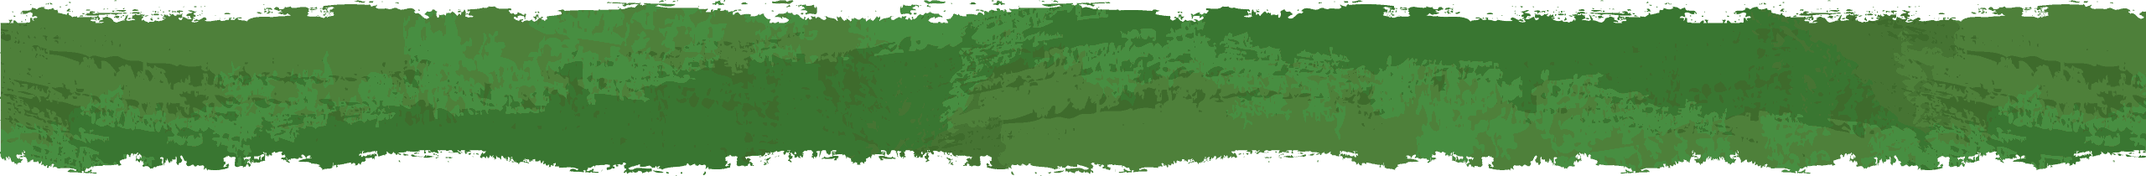
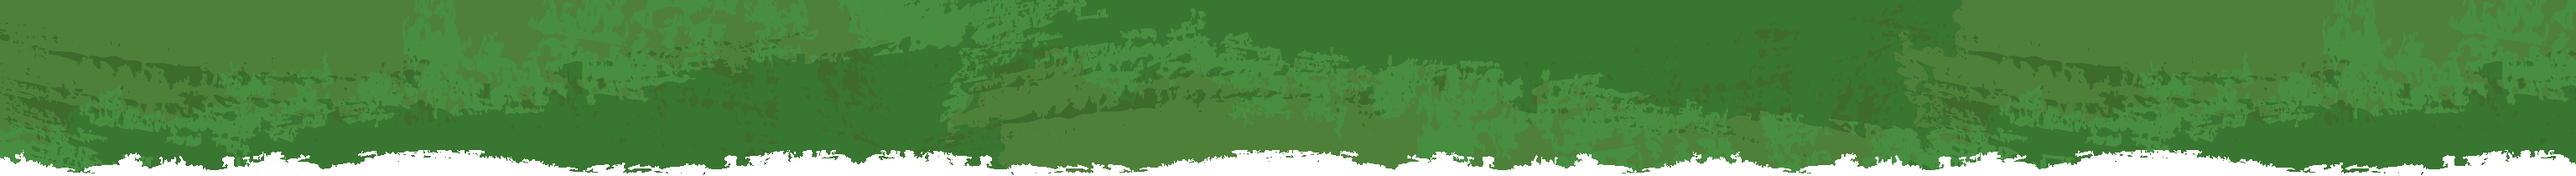
switch out donate background image with flat topped one

diff --git a/index.php b/index.php
@@ -1,21 +1,35 @@
 <?php get_header(); ?>
 
-<div class="hero">
-  <img src="<?php echo get_template_directory_uri(); ?>/assets/img/group.jpg" />
-  <svg id="heroClip" xmlns="http://www.w3.org/2000/svg" viewBox="0 0 1024 300">
-    <defs>
-      <style>.cls-1{fill:#fff;}</style>
-    </defs>
-    <title>Hero Image Bottom Border</title>
-    <g id="Layer_2" data-name="Layer 2">
-      <g id="Layer_1-2" data-name="Layer 1">
-        <path
-        class="cls-1" d="M1016,205H0V484c.35.58.27,2.19.77,2.39.41-1.18.69-2.75,1.43-2.94.24.13.31.67.39,1.21,0,1.68-.88,1.36-.33,3,.88.95.15-3.09.77-3,1.63.19,1.77,5.21,3.24,6.66-.14-.14,1-1.2,1.14-1.16.78.22.87,1.68,1.42,3,.6-.43,2.15-.81,2.12,1.85,1.39-3.85,3.21-3.08,4.7-2.84.25-3.95,1.69-2,1.93-4.72-.7.17-3,1.25-3.63-2.5-.15.86.14,3.09-.33,3-1-1.32-2.54-1.34-3.09-4.87,1.14-4.44,3.31-3.83,5.2-4.63,0,1.52.23,2.33.79,2.41.15-.86-.14-3.09.33-3,0,.89-.16,2.2.13,2.39a10.41,10.41,0,0,1,.55-3c.27.83,1.68,4.88,1.94.66.14-1.87-.69,1.49-.63-.62.26-3.91,1.36-1.05,2,.06a16.5,16.5,0,0,1-.9,6.54,2.05,2.05,0,0,0,1.94.66c.26,2.79,1.51,3.16,1.26,7.2,1.1.28,1.58-1.37,2.28-2.32a6.91,6.91,0,0,0,.37,1.8c.84-4.08,3.59-2.37,4.29-3.46.05,1.91-.48,1.84-.12,3,1.87,1.18,3.42.2,5.29-1a25.85,25.85,0,0,1,.74,3.6c1.65.87,1.86-2.71,3-3.49.32,2-.14,2.86-.2,5.37,1.18.74,1.27-1.87,2.45-1.12,0,2.26.91,2.09,1.41,3a3.68,3.68,0,0,1,2.91-1.7,30.24,30.24,0,0,0-.57,3.56l1.31,0c.29-.88.36-2.43.77-3,.77,2.05,1.35-.78,2-1.14.39,1.23-.14,1.17-.31,2.38,1.33.25,1.42-1.44,1-3.55.42,1.31,2.74-1.63,3,1.28-.33,1.44-1.16,1.34-1.23,3.55,1-1.31,3.19-.27,4.61-.46-.11,1.17.25,1.19.37,1.8,8.17-.45,15.67-1.93,22,2.45-.86-.18-1.42.54-1.82,1.73-3.18-1.89-5.9-4.58-8.77.34a26.39,26.39,0,0,0,3.52.5H83.55c-.28-.88-1.21-.15-1.38-1.27,1.25.51,2.06-.32,2.69-1.71-.19,2.24.94,1.28,1.22,2.42a1.09,1.09,0,0,1-.16.56h6.33a7.47,7.47,0,0,0,.41-1c0,.35,0,.66,0,1h1.18a4.82,4.82,0,0,1-.53-.35,1.46,1.46,0,0,1,1.35-1.15c-.49-5.16-2.24,2.46-3.27-.1-1.08,1.59-4.55,2.58-5-.15,1.1.44,1.69-1.58,2.34-4.11,2.81,3.94,5.2-3.79,7.48-1,.1.12-.43,1.33,0,1.19.25-.79.3-2.21.75-2.37,3.83.25,6.09-1,10.3-.29,0-.73.11-1.41.48-1.18,6,1.36,10.23.21,16.87-.7.3.71.47,1.74,1,1.83a15.91,15.91,0,0,0,2.47-1.72c-.51-.21-.79-1-1.51-.65a23.92,23.92,0,0,1-.28-4.19,22,22,0,0,1,5.58-2.36c.14.46.28,1,.48,1.47.6-.43,2.15-.81,2.12,1.85,1.39-3.85,3.21-3.08,4.7-2.84.25-3.95,1.69-2,1.93-4.72-.49.12-1.74.67-2.68-.28.88-3.08,3.08-5.56,3.25-.43,1-3.42,2.36-.68,3.71-2,.29,2.66,1.49,3.09,1.24,7.06,1.1.28,1.58-1.37,2.28-2.32,0,.21,0,.41.08.6l-.06,1.67c-1.39,1-2.68.22-3.48-.7a10.86,10.86,0,0,0-.3-3.6,40.59,40.59,0,0,1-.69,6.55c.79,1.32.71-.52,1.16-1.75,1,2,2.15,3.8,3.12,4.27.07-3.24.53-1.78,1.23-3.55a9.79,9.79,0,0,1,1.2,3c-.09-2.27,1.06-.72,1.58-1.15-.52,3.26,1,1.54.47,4.8-.58,0-1.27-.37-1.35,1.15.16.14.23.51.17,1.2,2,0,6.4-2.9,8.21,2.63.88-.49,2.08-1,2.84.09.37-1.69,1.62-3.54,2.91-1.71,2.13-2.29,5-2.35,8-2.75,0-1.13.3-1.31.31-2.38-.85-.85-.74,1.28-1.35,1.15a11.63,11.63,0,0,1,0-1.82c.43-.31.55-1.07.47-2.07a10.22,10.22,0,0,0,.27-1c.43,0,1.05-.37,1.57-.41,0,1,0,2.23,0,3.34a4.5,4.5,0,0,0-.27,1.55,1.45,1.45,0,0,1,.36-.34,9.59,9.59,0,0,0,.33,2c.13-.74.22-1.59.35-2.3,1.09-.21,2.54.29,3.57.15-.11,1.17.25,1.19.37,1.8,3.86-.21,7.57-.65,11.08-.59a2.17,2.17,0,0,0,.83.82c0-.29.07-.55.11-.8a18.39,18.39,0,0,1,10,3c-.86-.18-1.42.54-1.82,1.73-3.18-1.89-5.9-4.58-8.76.34,5.23,1.15,10.64.18,15.69,1.66.24-2.59-1.22-1-1.44-2.43,1.25.51,2.06-.32,2.69-1.71-.18,2.24.95,1.28,1.22,2.42-.06.94-.58.45-.51,1.78,2.87-1.25,5.43,2.65,7.09-2.18a7.58,7.58,0,0,0,.13,2.39c3.11-.84,5.75,2.05,7.23-.38a10.51,10.51,0,0,0-3.07-.3c.8-1.18,2-1,2.63-2.82a11,11,0,0,0,1.16,4.21c.06-.46.05-1.18.26-1.19,7.16,1.63,14.26,1.3,23-1.7.19-1.94-.24-2.27.79-3.57-.4.07-.49-.6-.37-1.8a10.43,10.43,0,0,0-2.93,2.3c.35.76,1.33-.54,1.7,1.25-1.87-.6-3.94,2.82-5-.75,1.55.06.87-2.91,2.49-2.31.38-1.84-.35-1.58.36-3.57a1.24,1.24,0,0,1-2.09-.16c1.7-.24,3.5-.54,5.52-.82.3.71.47,1.74,1,1.83a15.91,15.91,0,0,0,2.47-1.72c-.51-.21-.79-1-1.51-.65a23.92,23.92,0,0,1-.28-4.19l.77-.45c2,.48,5.33-1.43,5.85,1.72a17,17,0,0,1-1,2.36c.85.66.11,3.14-.36,3.58.75.49.17,2.09-.11,3,2.42,5.7,4.83.14,9.13,1.46,0,.77.25.84.15,1.8a2.41,2.41,0,0,1,2.89-1.11c.27-3.39,1.83-2.8,3.17-2.89-.13,2,.42,3.07,1.64,3-.09-2,.91-.73.77-3-1-.34-1.64-1.77-2.54-2.47-.12,2.49-1.13,1.47-1.55.56.33-.09.8.24.9-.57-.13-1-1.08.1-.81-1.82.26.58.57.57.89.33.06.12.11.24.16.37,0-.22,0-.39,0-.55.4-.39.8-1,1.13-1.28a2,2,0,0,1-.6-.35,6.55,6.55,0,0,0,.05-1.36c-.78.6-.5.61-1.24,0,0,.17,0,.32,0,.47-.23.07-.48.4-.82,1.2a6.32,6.32,0,0,0-.15-1.79c-1.74-.29-.92,1.06-2.28,2.32A9.93,9.93,0,0,0,264,486.4c1.56.69,2.76-.15,3.9-.55a1.16,1.16,0,0,0,0,.18c.5.85.65.39.81-.37a1.89,1.89,0,0,1,1.24.3,7.8,7.8,0,0,0,2,2.45.82.82,0,0,1-.37.1c-.06,4.1,1.4,3.44,1.75,6.27A22.64,22.64,0,0,1,274,492l.08.05,0-.37a4,4,0,0,1,1.26-2c.18,1.62-.4,1.38-.85,2.37.34,0,.5.45.76.64,0,0,0,.06,0,.1.16.14.23.51.17,1.2,2,0,6.41-2.9,8.21,2.63.88-.49,2.08-1,2.85.09.36-1.69,1.62-3.54,2.9-1.71,2.13-2.29,5-2.35,8-2.75,0-1.13.3-1.31.31-2.38-.85-.85-.74,1.28-1.35,1.15-.14-3.08.59-3.51.86-5.34,0-2.54-1.56-1.11-2.1-2.25.35-.23.47-.14,1,.3,0-.11,0-.22,0-.32a2.55,2.55,0,0,0,.76.48,5.68,5.68,0,0,0-.36-2.38c1.11-.37,2.1-.4,2.81,1.84-1,.27-.57,7.87-.12,8.95.33-1.9.4-4.54,1.67-3.53.06-2,.09-4.17.62-4.76a3.23,3.23,0,0,0,.56,2.4,23.83,23.83,0,0,1,1.23-3.54,29,29,0,0,0,2.16,6.63c.36-1.11.79-2,1.2-2.95.37,0,.27,1.18.61,1.27a5.62,5.62,0,0,0-.39.81,4.41,4.41,0,0,1,2.87.77c0,.62,0,1.36.18.11v0c.62.26,1.15.26,1.66-.71.2,3,1.31,1.77,1.83.48.15.23.29.49.43.75-.46,1.11-1.3,1.54-1.17,2,1.49-.38,2.73,2.69,3.89,1.31-.37-.44-.74-.9-1.12-1.33a5.75,5.75,0,0,1,.83-2.7,2.31,2.31,0,0,0,.47-.38l.08,0c.15.3.3.63.43,1a5.44,5.44,0,0,1,.13-1,2,2,0,0,1,.76.43,4.71,4.71,0,0,1,.49-1.33,3.09,3.09,0,0,0,1.62,0v0l.05-.06a1,1,0,0,0,.35-.32,2,2,0,0,1,1.3-.2,6.61,6.61,0,0,0,3.14.78,4,4,0,0,1,0,1.26.83.83,0,0,0-.9.58c1.25,5.31,3.41,3.39,5.35,2.13,1,0,2.06,0,3.1,0a14.5,14.5,0,0,0,1.25,1.71c.74.52,1.65-.83,2.61-1.46a11.57,11.57,0,0,1,1.78.44,1.38,1.38,0,0,0,.54.21,6.64,6.64,0,0,1,2.77,2.11,5.32,5.32,0,0,1,0-1.13,8,8,0,0,0,2.74.89c-.18,1.4-.7,1.69-.77,3.4.68-1.84,2.09-1.43,2.83-3.11l.2,0a10.78,10.78,0,0,0,1.1,3.8c.06-.46.05-1.18.26-1.19l1.18.25a3.39,3.39,0,0,0,0,.59c2-.66,3,3,4.11,2.79-.27.21-.65,1.45-.31,1.77,4.56-3.27,8.54.32,11.57-4.1-.29.06-.44-.34-.46-1.11l.57-.11a.77.77,0,0,0,.17.34c0-.13,0-.25,0-.38l.75-.17c0,.33.1.55.22.58a6.06,6.06,0,0,1,.16-.67q1.41-.35,2.88-.78c0,1.31-.19,3.05.11,3.32,0-2.48,1.33.74,1.31-1.74-.56.23-.91-.23-.92-1.73l.38-.12a79.39,79.39,0,0,0,10.4-2c1.39.8,2.91-.54,4.88-1a5.18,5.18,0,0,1,.37,2.28,6.14,6.14,0,0,1,2.21-1.69,3.2,3.2,0,0,1,.11,1.28,2.38,2.38,0,0,1,1.41-1.12,4,4,0,0,1,1.28,2.27c-.26.09-.62-.12-.68.58,2.07.83,3.1-1.57,4.29-3.46a3.2,3.2,0,0,0,2.09,2.46c.57-7.57,4.8-.89,5.71-6.41-.46.7-.79.34-.81-.44a.77.77,0,0,0,.29-.05c0-.21,0-.44,0-.67,2.19-.13,4.42,1.53,6.83-1.14a6.14,6.14,0,0,0-.06-.68c.17-.09.33-.18.5-.29-.06.36-.12.68-.19,1l.59-.17c.22,4.13,2-3,2.32,2.56.46-1.67.06-1.18.13-3.25.45-.09.8-.09,1,.08a6.65,6.65,0,0,1-.15-1.2c.74-.78,1.51-1.43,2.2,0-.45-3.11-1.19-3-2.07-3.26.1-1.18.25-2.52.4-4,.53,0,1.07-.09,1.59-.11a1.75,1.75,0,0,0,.38.81c-.58-.1-1.29-.62-1.48.47.6.7,1.32.59,2,0a1.71,1.71,0,0,1,.37.45,3.53,3.53,0,0,0-1.28,2.05c1.56-.6,1.26.56,1.35,3.6,3.32-.48,6-2.28,9.56-3.28.3-1.64-.63-3,.13-3.55,1.79,1.49,5.22,6.95,7.35.48l.13-.15a3,3,0,0,0,2.59,2.42c0,.17,0,.36-.05.57a2.59,2.59,0,0,1-1,1c-.14-.19-.2-.62-.3.06v.06c-1.38.35-2.58-1.66-3.8,1.43a4.41,4.41,0,0,1,2.87.77c0,.62,0,1.36.18.11v0c.62.26,1.15.26,1.66-.71.23,3.34,1.57,1.44,2,.06-.62.11-1-.49-1.18-1.82,1.1-1,1.23,1.13,1.68,2.18-.27,1.76-1.56,2.25-1.4,2.79,1.49-.38,2.73,2.69,3.89,1.31a16,16,0,0,0-2.31-2.46c.9-1.53,1.84-1.15,2.56-2,.16.32.3.66.44,1,.17-3.13,1.88-1.3,3-1.83v0l0-.06a1.07,1.07,0,0,0,.36-.32,2,2,0,0,1,1.3-.2c1.17.48,2.66,1.23,3.88.55a3.54,3.54,0,0,1,.51.81,3.82,3.82,0,0,0,0-1.17,4.39,4.39,0,0,0,1-1.86,4.21,4.21,0,0,1,.36,1.88c.39-.55.16-1.42.14-1.95a3.06,3.06,0,0,0,.57,1c.16.39.38.61.78.38a1.33,1.33,0,0,0,1-.61c0,.4,0,.8-.05,1.2.26-.09.62.12.68-.58-.23-.11-.3-.6-.44-.93a2.94,2.94,0,0,0,.2-.44c-.33-.41-1.08.47-1.35-.12.08-.3.32-.2.59-.93a1,1,0,0,0-.49-.38,2.66,2.66,0,0,1,1.37-1.59,2.76,2.76,0,0,0,.4-.06,1.65,1.65,0,0,1,.75.22V479h.13c1.3.85,2.54,3.14,3.26,3.69-.1,0-.2.15-.27.58.29,0,.16,1,.39,1.21a1.77,1.77,0,0,0,0-1.72.37.37,0,0,0,.16.05c.29-3.5,2.84-2.21,4.63-3.32a5.63,5.63,0,0,0-.24.94c-.13,1.58,1.25-.52.81,1.82-.8-.4-1.22-1-1.58,1.15.58.45.49-1.18.92-1.17-.06,3.12.63.63,1.29.63a11.12,11.12,0,0,1-.17,1.38c-5.12.2-10.23.47-14.79,3.64a36.19,36.19,0,0,0,6.8.35c.09.3.26.47.51.38,0-.13,0-.25,0-.37l.72,0a.69.69,0,0,0-.09.36c.14-.11.34,0,.42-.34,2.73.16,5.26.76,6.91,2.95a5.32,5.32,0,0,1,0-1.13c2.47,1.41,5.34.76,7.41,1.94h0c.05.16.13.18.22.13a4.18,4.18,0,0,1,.95.85c.09,2.42-1.15-.67-1.06,1.74,2-.66,3,3,4.11,2.79-.27.21-.65,1.45-.31,1.77,4.56-3.27,8.54.32,11.57-4.1-.45.1-.55-.9-.4-2.68.35.22.37,1.48.68,1.8.09-2.71.4-4.51.95-5.31.08,1.57-.5,5.21,0,5.34.49-2.78,2-1.43,3-1.69,0,1.33-.21,3.28.12,3.56,0-2.48,1.32.74,1.3-1.74-.57.23-.92-.24-.92-1.81,5-.5,10.33-2,15.54-3.28a4.55,4.55,0,0,1,.49,2.51c1.66-1.83,3.91-3.24,5,.74-.26.09-.62-.12-.68.58,2.07.83,3.1-1.57,4.29-3.46a3.2,3.2,0,0,0,2.09,2.46c.57-7.57,4.8-.89,5.72-6.41-.7,1-1.11-.22-.59-1.81a2,2,0,0,0-.29-.19c2.48-.27,4.94.27,7.34-1.09a7.77,7.77,0,0,0-1.62,4.91c2.62,0,3.7-3.1,5.66.76.07-.72.26-.36.44,0,.22-5.75,1.9-.81,2.62.07.14-2.26,1-1.88,1.57-1.15-.21-1.74,0-3.43.6-4.16.31,2.13,1.33,2.51,1.81,4.24.34-1.48-.55-2.5.11-3,.32,2.12.55,0,1.12-.56,1,1.43,1.36,4.24,1.93,6.63.14-2.47,1.26-1.94,1.56-.55.56-3.26-.92-5.17.24-6.57.64,6,4,2.68,5.42,7.33.61-1.44-.42-1.29-.09-3.59,1.24-5.11,2.81.78,4.09,1.92.65,0,.8-1.53,1.38-1.76.27.77,0,2.93.54,3,.44-2.7.91.51,1.75.05.09-1.85-.62-1.73-.28-4.19.6.51.6-.83,1.11-.57.37.56.28,2.21.79,2.42.41-1.19.69-2.76,1.42-3,.24.14.32.68.39,1.21,0,1.69-.87,1.36-.33,3,.89.94.16-3.09.77-3,1.64.2,1.78,5.21,3.25,6.67-.15-.15,1-1.21,1.14-1.16.77.21.87,1.67,1.41,3,.61-.44,2.16-.82,2.12,1.85,1.4-3.86,3.22-3.09,4.7-2.85.26-3.94,1.7-2,1.94-4.72-.7.17-3,1.25-3.63-2.5-.15.87.14,3.1-.33,3-1-1.31-2.55-1.33-3.1-4.87,1.15-4.43,3.31-3.83,5.21-4.63,0,1.52.23,2.33.78,2.42.15-.86-.14-3.09.33-3,0,.9-.16,2.2.13,2.39a10.78,10.78,0,0,1,.55-3c.28.83,1.68,4.88,1.95.66.13-1.86-.69,1.5-.64-.62.26-3.9,1.36-1,2,.06a16.81,16.81,0,0,1-.9,6.54,2,2,0,0,0,1.94.66c.26,2.79,1.51,3.16,1.26,7.2,1.1.28,1.57-1.37,2.27-2.32a7.35,7.35,0,0,0,.37,1.8c.85-4.07,3.6-2.36,4.29-3.45.06,1.9-.48,1.83-.11,3,1.87,1.19,3.41.21,5.29-1a27.56,27.56,0,0,1,.74,3.61c1.65.86,1.86-2.71,3-3.5.32,2.05-.13,2.87-.2,5.37,1.18.75,1.27-1.86,2.45-1.12,0,2.27.91,2.09,1.42,3a3.65,3.65,0,0,1,2.91-1.71,32.14,32.14,0,0,0-.58,3.57l1.31,0c.29-.89.37-2.43.77-3,.78,2.05,1.35-.77,2-1.13.39,1.23-.15,1.17-.31,2.38,1.32.24,1.42-1.44,1-3.55.42,1.3,2.74-1.64,3,1.28-.33,1.43-1.15,1.33-1.23,3.55,1-1.32,3.2-.28,4.61-.46-.11,1.17.26,1.19.37,1.8,8.18-.46,15.67-1.93,22,2.44-.64-.13-1.11.23-1.48.93h7a4.75,4.75,0,0,0,.85-1.34,2.3,2.3,0,0,0,.16,1.34H648a.36.36,0,0,1,0-.1c1.1.43,1.68-1.59,2.34-4.11,2.8,3.93,5.2-3.79,7.48-1,.1.13-.44,1.34,0,1.2.25-.79.29-2.22.75-2.37,3.83.25,6.09-1,10.29-.3,0-.72.12-1.41.48-1.18,6,1.36,10.24.21,16.88-.69.3.7.47,1.74,1,1.82a14.83,14.83,0,0,0,2.47-1.72c-.5-.2-.78-1-1.5-.64a23.92,23.92,0,0,1-.28-4.19,21.51,21.51,0,0,1,5.58-2.37,12.66,12.66,0,0,0,.48,1.48c.6-.44,2.15-.82,2.11,1.85,1.4-3.86,3.22-3.09,4.71-2.85.25-3.94,1.69-2,1.93-4.72-.49.12-1.75.68-2.68-.27.88-3.08,3.08-5.57,3.24-.43,1-3.42,2.37-.69,3.72-2,.29,2.66,1.49,3.09,1.24,7.06,1.1.28,1.58-1.37,2.28-2.32,0,.21,0,.41.07.6l-.06,1.67c-1.38,1-2.67.23-3.47-.7a11.33,11.33,0,0,0-.3-3.59,43.25,43.25,0,0,1-.69,6.55c.79,1.32.7-.53,1.16-1.76,1,2,2.15,3.8,3.12,4.27.06-3.24.52-1.78,1.23-3.54a9.59,9.59,0,0,1,1.2,3c-.09-2.28,1.06-.73,1.57-1.15-.52,3.26,1,1.53.48,4.79-.58,0-1.28-.37-1.36,1.16.17.13.24.5.17,1.2,2.06,0,6.41-2.91,8.22,2.63.87-.49,2.07-1,2.84.08.36-1.69,1.62-3.53,2.91-1.7,2.12-2.3,5-2.36,8-2.76,0-1.12.3-1.31.31-2.37-.86-.86-.74,1.27-1.36,1.15a12.81,12.81,0,0,1,0-1.82c.42-.31.54-1.08.47-2.07.09-.31.19-.63.27-1,.43,0,1-.38,1.57-.41,0,1,0,2.22,0,3.33a4.73,4.73,0,0,0-.28,1.56,1.73,1.73,0,0,1,.37-.35,9.86,9.86,0,0,0,.33,2c.12-.75.21-1.6.35-2.31,1.09-.21,2.54.29,3.57.16-.11,1.17.25,1.19.37,1.8,3.86-.22,7.56-.65,11.07-.6a2.27,2.27,0,0,0,.83.83c0-.29.08-.55.12-.8a18.24,18.24,0,0,1,10,3c-.85-.18-1.41.54-1.81,1.74-3.19-1.9-5.9-4.59-8.77.34,5.24,1.14,10.65.17,15.69,1.65.25-2.59-1.21-1-1.44-2.43,1.25.52,2.06-.31,2.69-1.71-.18,2.25,1,1.29,1.22,2.42-.05.95-.57.46-.5,1.78,2.87-1.25,5.43,2.66,7.08-2.18a8.24,8.24,0,0,0,.13,2.39c3.11-.84,5.76,2.05,7.24-.38a10.58,10.58,0,0,0-3.08-.29c.8-1.19,2-1,2.64-2.83a11.3,11.3,0,0,0,1.15,4.22c.07-.47.05-1.18.27-1.19,7.16,1.62,14.26,1.3,23-1.71.19-1.93-.23-2.26.79-3.56-.39.06-.48-.61-.36-1.8a10.11,10.11,0,0,0-2.94,2.3c.36.76,1.34-.55,1.71,1.24-1.88-.6-3.95,2.82-5-.74,1.55.06.87-2.91,2.5-2.32.37-1.84-.35-1.58.35-3.57a1.24,1.24,0,0,1-2.09-.16c1.7-.24,3.5-.54,5.53-.81.3.7.47,1.74,1,1.82a14.43,14.43,0,0,0,2.47-1.72c-.5-.2-.78-1-1.5-.64a23.92,23.92,0,0,1-.28-4.19c.24-.16.5-.3.76-.45,2,.48,5.33-1.43,5.86,1.72a18.91,18.91,0,0,1-1,2.36c.86.65.11,3.13-.35,3.57.75.49.17,2.1-.12,3,2.42,5.69,4.84.13,9.14,1.46,0,.76.25.83.15,1.8a2.39,2.39,0,0,1,2.88-1.11c.27-3.39,1.84-2.81,3.18-2.9-.13,2,.41,3.07,1.63,3-.08-2.05.92-.73.77-3-1-.34-1.64-1.76-2.53-2.46-.12,2.48-1.14,1.46-1.55.55.33-.09.8.24.89-.57-.12-1-1.07.11-.8-1.81.61,1.4,1.56-.62,2.23-1.13-1.37-.47-1.54-2.64-2.62-.08a6.38,6.38,0,0,0-.16-1.8c-1.74-.29-.92,1.07-2.27,2.32a10.05,10.05,0,0,0-1.81-4.23c1.56.69,2.75-.14,3.89-.55a1.29,1.29,0,0,1,0,.19c.5.84.65.39.81-.37a1.85,1.85,0,0,1,1.25.3,6.89,6.89,0,0,0,2.22,2.58c.06-3.24.52-1.78,1.23-3.54a9.59,9.59,0,0,1,1.2,3c-.09-2.28,1.06-.73,1.57-1.15-.52,3.26,1,1.53.48,4.79-.58,0-1.28-.37-1.36,1.16.17.13.24.5.17,1.2,2.06,0,6.41-2.91,8.22,2.63.87-.49,2.07-1,2.84.08.36-1.69,1.62-3.53,2.91-1.7,2.12-2.3,4.95-2.36,8-2.76,0-1.12.3-1.31.31-2.37-.85-.86-.74,1.27-1.36,1.15-.13-3.08.59-3.52.86-5.35,0-2.53-1.56-1.11-2.1-2.25.35-.22.48-.13,1,.3a16.56,16.56,0,0,1-.07-2c1.3-.49,2.46-.87,3.27,1.67-1,.27-.58,7.87-.12,9,.32-1.9.4-4.55,1.66-3.54.07-2,.09-4.16.62-4.76a3.31,3.31,0,0,0,.57,2.41,22.88,22.88,0,0,1,1.23-3.55,28.84,28.84,0,0,0,2.15,6.63c.36-1.1.8-2,1.21-2.95.43,0,.21,1.64.83,1.22,0-2.43.46-.3.89-.57.22-1.32.25-3.23.79-3.56.67,3.24,1.89-.78,3.24,1.29a18,18,0,0,1,.17-3.89,5,5,0,0,1,.26.8,2.31,2.31,0,0,1,.37-1.26,5.73,5.73,0,0,1,.47,1.78,1.45,1.45,0,0,0,.06.52,19.06,19.06,0,0,1,.09,2.09c-.37,0-.69-.19-.71,1.06a1.58,1.58,0,0,0,.53,1.38c-.08.57-.18,1.15-.31,1.73a8,8,0,0,1,.51.87c-.46,1.11-1.31,1.53-1.17,2,1.49-.38,2.73,2.7,3.89,1.31-.38-.43-.75-.89-1.13-1.32a5.79,5.79,0,0,1,.83-2.7,2.15,2.15,0,0,0,.49-.39,1.4,1.4,0,0,1,1.39.4c.37-1.76,1.26-1.89,1.47-4.14a6.21,6.21,0,0,1-2-3,12,12,0,0,0,1.87,2.32,27.13,27.13,0,0,1,.73-3.91,30.6,30.6,0,0,1,1.2,2.91c-.37-.14-.77-.86-1.47.42.23,2.19-.22,2.67.28,4.19,1.06-1.39,2.29.31,2.63-1.55.35.38.7.39,1.08-.21a3.56,3.56,0,0,1,.66,1.89,1.61,1.61,0,0,1,.33-.32,2.84,2.84,0,0,1,.17,1.65.8.8,0,0,0-.89.57c1.66,7.07,4.91,1.34,7.16,1.4,1.35,0,1.9,2,2.54,2.47,1,.73,2.42-2.24,3.78-1.68,1.61,2.86,5.31-2.46,6.68,2.59-.14,1.54-.72,1.77-.79,3.56.73-2,2.3-1.37,3-3.5a11.3,11.3,0,0,0,1.15,4.22c.07-.47,0-1.18.27-1.19,7.16,1.62,14.26,1.3,23-1.71.19-1.93-.23-2.26.8-3.56-.4.06-.49-.61-.37-1.8a10.11,10.11,0,0,0-2.94,2.3c.36.76,1.34-.55,1.71,1.24-1.88-.6-4,2.82-5-.74,1.55.06.87-2.91,2.5-2.32.29-1.41-.07-1.59.07-2.5a.86.86,0,0,1,.54.61c0-2.08.63-2.07,1-3a8.91,8.91,0,0,0-3.19-.52,2.46,2.46,0,0,0-.54-1.86,4,4,0,0,1,.55-1c0,.48,0,.89.21.94,2.49-1,4.67-.18,7.47-1,0,.6,0,1.19-.07,1.79.81-1.49,1.6.18,2.48-1.72.23,3.24,2.15,2,1.52,6,.9.13.73-2,1-2.36a3.5,3.5,0,0,1,.55.17,4.5,4.5,0,0,1-.74,2.33c.75.49.17,2.1-.12,3,1.9,4.46,3.79,2,6.6,1.38a5.21,5.21,0,0,1,.37,2.28,5.92,5.92,0,0,1,2.21-1.68,3.37,3.37,0,0,1,.11,1.28,2.35,2.35,0,0,1,1.4-1.13,3.94,3.94,0,0,1,1.28,2.28c-.26.09-.61-.12-.68.57,2.08.84,3.1-1.57,4.29-3.45a3.23,3.23,0,0,0,2.1,2.45c.56-7.57,4.79-.89,5.71-6.4-.69,1-1.1-.23-.59-1.81-2.2-1.93-3.25,5.39-5.27.44a22.81,22.81,0,0,0,.62-4.76c-1.23,1.07-2.39,2.59-2.79-1.28,1.07-.81,1.44.35,2.23-1.13,0-.11,0-.21,0-.32l.59-.07c0,.29,0,.62,0,1l.87,0a6.13,6.13,0,0,0,.12-1.09c4.75-.1,10.48,1.68,13.21-6.75.88,3.46,3.45.09,4.65,4.31-.3,1.74-1.93-.6-2.23,1.13,1.26,1.48,3.07-.62,3.63-3.47.71,1,1.83-.51,2.34,1.86-.32.59-.84.54-1,1.76.66-.51.7-.51,1.31,0-.1-1.53-.21-2.75.36-3.57,1.36,1.2,3.41-3.77,4.59.13,2.51-.64,5.34-3.14,7.91-1-.36,1.11-1.22.67-1.2,2.95,1.26,5.11,3.55-6,5-.44.13-2,1.2-1.18,1.42-2.95-.43-1.35-2.11,1.63-2.62-.08,1-2.57,3.25-2.21,4-1.07-.37,2.28-1.26,1.49-.84,4.75-.51.18-.84-.12-1.07-.63-.29,2.16,1,.53.78,2.41-.55,1.52-1.35-.24-1.38,1.76,0,1.61.88,1.09,1,2.41,0,2.39-1.63,2.93-1.45,3.54,1.49-.38,2.73,2.7,3.89,1.31a15.56,15.56,0,0,0-2.32-2.45c1.36-2.3,2.79-.28,3.46-4.68-.61-.66-.81-.17-1.74-.05a11.22,11.22,0,0,0-.94-4.21c2-2.37,2.86,1.29,4.5,2.52a18.25,18.25,0,0,1,1-4.75c.92-.06,1.27,1.25,1.66,2.44-.74,3.06-1.08-.41-2.25,1.73.23,2.19-.22,2.67.28,4.19,1.18-1.54,2.58.75,2.71-2.31.74.43,1.3.14,1.66,2.44.72-.91,1.23-.35,1.73.64.17-1.87-.53-1.59-.55-3,.78-1.51,1.93-.31,1.9,1.85.57-.78-.15-2.23.31-2.38.31.87.34,2.42,1.24,1.83-.28-2.23.1-1.17.53-2.38-.45-.7-1.41-.16-1.46-1.83.89-.65,1.45,1.84,1.77-.54-.36-.56-1.08-.24-1.27-1.24,1.61-1.83,3.2-4.1,5.1-1.64,1-4.64,2.38-.19,3.63-3.48.23,1.33,1,1.45,1.51,1.95V205ZM136.75,483.59a9.64,9.64,0,0,1-1.93-1.95,8.24,8.24,0,0,1,.29-.84c.65.67.93,2.26,1.7,1.24A8.72,8.72,0,0,0,136.75,483.59Zm13.65,3.63a3.49,3.49,0,0,1-.8-1.19,2.57,2.57,0,0,1,1.33-1.4A5.42,5.42,0,0,1,150.4,487.22Zm69.72,14.52a5.74,5.74,0,0,1-3.38-1.09,1.46,1.46,0,0,1,1.36-1.15c-.5-5.16-2.24,2.46-3.28-.1-1.08,1.59-4.55,2.58-5-.15.65.26,1.12-.34,1.53-1.4.69-.44,1.45-1.41,2.22-1.6a1.56,1.56,0,0,0,.57,0h0c1.62,2.86,5.32-2.46,6.69,2.59C220.72,500.18,220.29,500.55,220.12,501.74Zm52-13.46c.08-2.74.5-1.69,1.13-3.07C273,486.83,272.64,487.86,272.12,488.28Zm4.26,3.37a1.44,1.44,0,0,0-.69,0c0-1,.46-1.25.74-1.4Zm.07-1.89a1.17,1.17,0,0,1-.89-.17,1.25,1.25,0,0,1,.9,0A1.7,1.7,0,0,0,276.45,489.76Zm18.47-6.88a1.38,1.38,0,0,1,0-.22l.12.06S295,482.82,294.92,482.88Zm12.46,4.63c0-1.37.26-.84.53-.48A1.55,1.55,0,0,0,307.38,487.51Zm4.44-1.37a2.59,2.59,0,0,1-1,1c-.14-.19-.2-.62-.3.06v.06c-.8.2-1.53-.38-2.25-.32.18-1.29.25-2.94.75-3.24.59,2.87,1.62,0,2.79.81A5.82,5.82,0,0,1,311.82,486.14Zm1.28-5.53c0,.05,0,.1.07.16a1.13,1.13,0,0,1-.31.31A1.71,1.71,0,0,1,313.1,480.61Zm-.64.45,0,0h0Zm.83,7.8c-.52,0-.86-.62-1-1.82.66-.57,1,0,1.21.7C313.44,488.11,313.37,488.48,313.29,488.86Zm.85,2h0l0,0Zm5.47-7.16c.07.3.17.45.29.49a9.49,9.49,0,0,1,0,1.14A3.5,3.5,0,0,1,319.61,483.7Zm1.44-.43c.06-.07.11-.12.16-.19a3.62,3.62,0,0,0,.13.35A1.21,1.21,0,0,1,321.05,483.27Zm44.56,11.49a3.37,3.37,0,0,1-.37-.76l.12-.34a.79.79,0,0,0,.3-.12C365.66,493.9,365.63,494.32,365.61,494.76Zm30.85-5.06,0,0,0,.08ZM395,484.51c0,.13,0,.25,0,.37-.34.13-.65.07-.89-.42a21.4,21.4,0,0,0,.51-2.33,1,1,0,0,0,1.1-.5s0,0,0-.06a2.55,2.55,0,0,0,.14-.24c0-.12,0-.22,0-.32l.56-.07,0,0c0,.28,0,.6,0,1h.06C396.25,483.63,395.72,484.5,395,484.51Zm1.9,5.61c.06-.31.12-.61.19-.89a6.82,6.82,0,0,1,1.38-.77.74.74,0,0,0,.43.34C398.21,489.64,397.59,490.58,396.88,490.12Zm2.31-1.69,0-.24.4-.12A4.17,4.17,0,0,0,399.19,488.43Zm9.49-5.3v.35a9,9,0,0,0-1.05,1.93h-.05a5.66,5.66,0,0,1-.29-.85c0-.44,0-1-.09-1.34a13.89,13.89,0,0,1,.31-1.91c-1.12-.72-1.42,2-1.91,3.87h0c.39-1.45-.68-1.77-.63-.61.22,0,.27.51.46.62-.48-.07-.94-.65-1.19-1.67a7.47,7.47,0,0,1-.79,1.13c-.88-.43-1.83-.08-3.25,0,0-1.36,0-2.56.08-3.6l.31-.11c2.32.07,4.68,0,6.66-1.43.32-.17.73-.53,1.2-.21,0-.12-.05-.24-.08-.36,1.18-.2,2.35-.36,3.5-.48C411.39,482.66,410,480.84,408.68,483.13Zm8-.12a4.57,4.57,0,0,0-.34-2.82,4.94,4.94,0,0,1,.47-1c.16.21.22.65.5.52a1.65,1.65,0,0,0,0-1,1.1,1.1,0,0,1,1.17.07,1.93,1.93,0,0,0-.3,1c.66-.52.69-.52,1.31,0l0-.32a2.55,2.55,0,0,0,.76.48,8.48,8.48,0,0,0-.09-1.41,11.69,11.69,0,0,1,3.85,1.16C422.29,484.62,419.35,480,416.66,483Zm26.46-2.6h.25c0,.35,0,.66,0,.92A2.66,2.66,0,0,1,443.12,480.41Zm17.21-4.64a5.09,5.09,0,0,1,.29-1.38c.75.55,1.58,1.43,2.47,2.07C462.24,476,461.44,475.41,460.33,475.77Zm8-.12c.89.73,1.7-.08,2.39-.67,0,.07.05.13.08.21-.37,3.41-1.54,1.5-2.52,1.61C468.27,476.41,468.29,476,468.3,475.65Zm-.74,0a5.68,5.68,0,0,1,.17,1.39,2.44,2.44,0,0,1-.36-1.16Zm7.36,1.46c.32-.1.53.11.69.51,0,.09,0,.12,0,0a5.62,5.62,0,0,1,.28,1.23c-.46-.14-.92-.05-1.32,1.42a1.51,1.51,0,0,1,.92,0c0,.18,0,.37-.05.57a2.85,2.85,0,0,0,.78.67,6.7,6.7,0,0,0,.22,1,31,31,0,0,1-10.32,1.72v-.07a.48.48,0,0,0-.51.09l-.8,0c0-.94-.05-2,.28-1.94.56.9,1.52-.83,1.68,1.84.68-.35.73-2.66,1.82-1.74,0-.36,0-.65,0-.91a3.65,3.65,0,0,0,.26-1.38l-.09.08a7.8,7.8,0,0,0,.2-1.49c1.28.33,2.57.65,3-2.59-.41-.2-1.18.74-1-1.38l0,0c.41,0,.79.35,1.11,1.22-.58,3.27-.7,4-1.15,7.14a26,26,0,0,0,1.42-4.61,11.1,11.1,0,0,0-.35,2.63,2.2,2.2,0,0,1,2.23.07c.46-4-1.67,0-1.63-2.72,0-.36,0-.68.09-1a4.06,4.06,0,0,1,.46-.91.37.37,0,0,1-.28-.11,3.25,3.25,0,0,1,.56-1.25,3.3,3.3,0,0,0,.71-.46c1.18-.28,2.72,1,3.59-.59a6.78,6.78,0,0,0,.14,1.44C476.6,476.21,475.25,476.4,474.92,477.09Zm3.47-1.73a6.1,6.1,0,0,1,.26-1.24c.09.29.17.6.25.92A5.43,5.43,0,0,1,478.39,475.36Zm45.13-3c.18.17.34.4.15,1.74A6,6,0,0,1,523.52,472.32Zm-3.6,13.38a7.26,7.26,0,0,1,3.09-1.63C521.92,485,521.06,487.28,519.92,485.7Zm17.18-6.77-.06.19c-.57-.87-1.3-.51-2.11-1.15-.07,1,0,2.52-.34,2.66-.75-3.44-2.37-2-3.51.78-.58.26-.18-2.57-.64-2.68-.28,1.62-.84,2.39-1.4,2.46.39-1.45-.67-1.77-.63-.61.22,0,.27.51.46.62-.48-.07-.94-.65-1.19-1.67-2,3.42-3.42,1.58-4.86,1.87a.93.93,0,0,0,.1-.38c-.25.05-.31-.88-.43,0a.68.68,0,0,0,.1.46c-.57.21-1.15.83-1.77,2.31.24-2.84-.56-.73-1.27-.64a16.43,16.43,0,0,0,.36-3.4c-.92.8-1.8,1.84-2.36.72a21.4,21.4,0,0,0,.51-2.33,1,1,0,0,0,1.1-.5s0,0,0-.06a2.55,2.55,0,0,0,.14-.24,2.71,2.71,0,0,0,0-.54h.36l.21.2c0,.28,0,.6,0,1l.87,0a6.84,6.84,0,0,0,.12-1.24l1.36-.06a7.93,7.93,0,0,0,0,.93c1.12-.45,2.29-.86,3.5-1.22.74,1,1.7.06,2.66-.73.56-.13,1.13-.27,1.7-.38.15.46.37.36.65.19a6.24,6.24,0,0,1,.7,2.05c2.29-.44,4.62-.78,7-1.09a4.84,4.84,0,0,0-.81,1.63c1.45-.56,1.3.42,1.34,3C538.27,480.94,537.54,480.21,537.1,478.93Zm4-.72a3.38,3.38,0,0,0-1,.8,4.72,4.72,0,0,0-.31-2.77l1.35-.17A11.39,11.39,0,0,1,541.11,478.21Zm2.3-.26-.47-.05c-.55-.35-.69-1.68-1.3-1.89l1.53-.16a7.62,7.62,0,0,1,.32,2.07Zm154.92,7.28a9.84,9.84,0,0,1-1.93-1.94,6.83,6.83,0,0,1,.29-.84c.66.66.94,2.25,1.71,1.24A8.79,8.79,0,0,0,698.33,485.23ZM712,488.87a3.48,3.48,0,0,1-.79-1.19,2.6,2.6,0,0,1,1.33-1.41A5.3,5.3,0,0,1,712,488.87Zm69.72,14.51a5.72,5.72,0,0,1-3.37-1.08,1.49,1.49,0,0,1,1.35-1.16c-.5-5.16-2.24,2.47-3.28-.09-1.08,1.59-4.54,2.57-5-.15.65.26,1.12-.35,1.53-1.4.68-.44,1.44-1.41,2.22-1.61a1.56,1.56,0,0,0,.57,0h0c1.61,2.86,5.31-2.46,6.68,2.59C782.31,501.83,781.87,502.2,781.7,503.38Zm74.81-18.84a5.32,5.32,0,0,1,0-.84c.25-.06.49-.15.73-.23a.93.93,0,0,0,0,.13C857,484,856.72,484.12,856.51,484.54Zm19.21,8v0l0,.05Z"
-        transform="translate(0 -450)" />
-      </g>
-    </g>
-  </svg>
-  <h1 class="hero__heading">About</h1>
-</div>
+<?php if ( have_posts() ) : while ( have_posts() ) : the_post(); ?>
+
+  <div class="regular-content">
+
+    <?php if ( get_the_title() ) : ?>
+      <h2 class="regular-content__title">
+        <span class="line"></span>
+        <span class="text">
+          <?php the_title(); ?>
+        </span>
+        <span class="line"></span>
+      </h2>
+    <?php endif; ?>
+
+    <div class="regular-content__content">
+      <?php the_content(); ?>
+    </div>
+
+  </div>
+
+<?php endwhile; endif; ?>
+
+<?php
+
+  if ( have_rows( 'page_content' ) ) : while ( have_rows( 'page_content' ) ) : the_row();
+
+    get_template_part( 'template-parts/' . get_row_layout() );
+
+  endwhile; endif;
+
+?>
 
 <?php get_footer(); ?>

diff --git a/page.php b/page.php
@@ -1,16 +1,17 @@
-<?php get_header(); ?>
 <?php
+
+  get_header();
 
   if ( have_posts() ) : while ( have_posts() ) : the_post();
 
     if ( have_rows( 'page_content' ) ) : while ( have_rows( 'page_content' ) ) : the_row();
 
       get_template_part( 'template-parts/' . get_row_layout() );
-      
+
     endwhile; endif;
 
   endwhile; endif;
 
-?>
+  get_footer();
 
-<?php get_footer(); ?>
+?>
